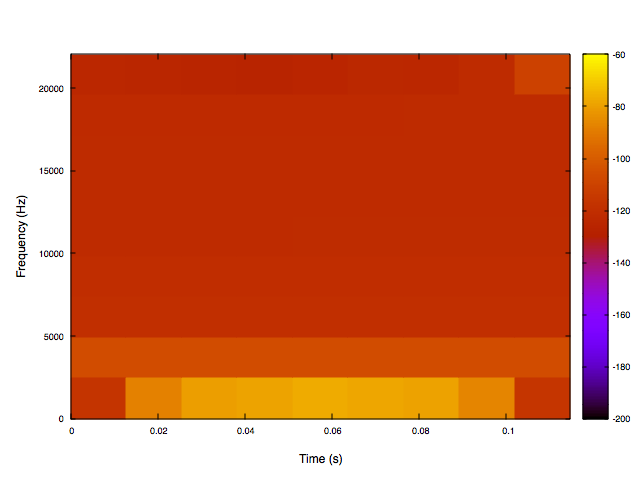
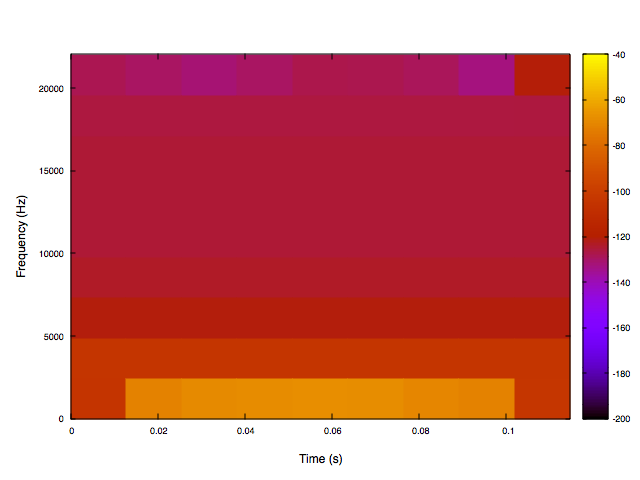
added overlap

diff --git a/audio_parser.cpp b/audio_parser.cpp
@@ -11,7 +11,7 @@
 #define PI 3.14159265
 
 std::pair<arma::mat, SF_INFO>  readWaveFile(std::string fileName);
-arma::cube parseFrequencyStrengths(arma::mat rawSound);
+arma::cube parseFrequencyStrengths(arma::mat rawSound, double overlap, double fftLength);
 void plotSpectrogram(arma::cube strengths, long frames, long samplerate);
 
 std::pair<arma::mat, SF_INFO> readWaveFile(std::string fileName) {
@@ -45,74 +45,86 @@ std::pair<arma::mat, SF_INFO> readWaveFile(std::string fileName) {
                 long column = i % numChannels;
                 buffer(row,column) = tempBuffer[i];
             }
-            free(tempBuffer);
+            delete[] tempBuffer;
+//            free(tempBuffer);
         }
         sf_close(sndFile);
     }
     return std::make_pair(buffer, soundInfo);
 }
 
-arma::cube parseFrequencyStrengths(arma::mat rawSound) {
-    double numFrequencyBins = 1024;
-    double validFrequencyBins = floor(numFrequencyBins/2.0);
-    double numSamples = rawSound.n_rows;
-    double numChannels = rawSound.n_cols;
-    double numIntervals = floor(numSamples/numFrequencyBins)+1;
+arma::cube parseFrequencyStrengths(arma::mat rawSound, double overlap, long fftLength) {
+    long numSamples = rawSound.n_rows;
+    long numChannels = rawSound.n_cols;
+    
+    double numIntervals = 0;
+    if (numSamples%fftLength == 0) {
+        numIntervals = (floor(numSamples/fftLength)-1)/overlap+1;
+    }
+    else {
+        numIntervals = floor(numSamples/fftLength)/overlap+1;
+    }
+    long numSamplesOverlap = fftLength*overlap;
+    long validFFTLength = fftLength/2;
     
     arma::cube retMatrix;
-    retMatrix.zeros(numChannels, numIntervals, validFrequencyBins);
+    retMatrix.zeros(numChannels, numIntervals, validFFTLength);
     
-    for(double i=0; i<numIntervals; i++) {
-        //try 50% overlap, retain information lost from window function
-        double start = i*numFrequencyBins;
-        double end = (i+1)*numFrequencyBins-1;
-        if (i==(numIntervals-1)) {
-            end = numSamples-1;
+    for(double j=0; j<numIntervals; j++) {
+        long startIndex = j*numSamplesOverlap;
+        long endIndex = startIndex + fftLength - 1;
+        if(endIndex >= numSamples) {
+            endIndex = numSamples-1;
         }
-        double fftLength = end-start+1;
-        arma::uvec fftRange = arma::linspace<arma::uvec>(start, end, fftLength);
+        long numAvailableSamples = endIndex-startIndex+1;
+        arma::uvec fftRange = arma::linspace<arma::uvec>(startIndex, endIndex, numAvailableSamples);
         
-        for(double j=0; j<numChannels; j++) {
-            arma::uvec colVec;
-            colVec << j;
-            arma::cx_mat chunk(fftLength, 1);
+        for(double i=0; i<numChannels; i++) {
+            arma::uvec channelVec;
+            channelVec << i;
+            
+            arma::cx_vec chunk(numAvailableSamples);
             fftw_complex* in = reinterpret_cast<fftw_complex*> (chunk.colptr(0));
-            fftw_plan plan = fftw_plan_dft_1d(fftLength, in, in, FFTW_FORWARD, FFTW_MEASURE);
-            chunk = arma::conv_to<arma::cx_mat>::from(rawSound.submat(fftRange, colVec));
+            fftw_plan plan = fftw_plan_dft_1d(numAvailableSamples, in, in, FFTW_FORWARD, FFTW_MEASURE);
+            chunk = arma::conv_to<arma::cx_vec>::from(rawSound.submat(fftRange, channelVec));
             
             //hann window function, reduce spectral leakage
-            for (double k=0; k<fftLength; k++) {
-                double multiplier = 0.5 * (1 - cos(2.0*PI*k/(fftLength-1)));
-                chunk(k, 0) = multiplier * chunk(k, 0);
+            for (double k=0; k<numAvailableSamples; k++) {
+                double multiplier = 0.5 * (1 - cos(2.0*PI*k/(numAvailableSamples-1)));
+                chunk(k) = multiplier * chunk(k);
             }
             
-            //zero fill
-            chunk.insert_rows(fftLength, numFrequencyBins-fftLength, true);
+            if (numAvailableSamples < fftLength) {
+                //zero fill remainder
+                chunk.insert_rows(numAvailableSamples, fftLength-numAvailableSamples);
+            }
             
             //compute FFT
             fftw_execute(plan);
             
             //drop frequencies below nyquist frequency
-            chunk.shed_rows(validFrequencyBins, numFrequencyBins-1);
+            chunk.shed_rows(validFFTLength, fftLength-1);
             
             //equalize frequency strengths for different fft lengths
-            chunk /= fftLength;
+            chunk /= numAvailableSamples;
             
             //apply absolute value, combines R & I components
-            arma::mat magnitudeChunk = abs(chunk);
+            arma::vec magnitudeChunk = abs(chunk);
             
             //converts magnitude to dB scale
             magnitudeChunk = 20.0*log10(magnitudeChunk);
             
-            for (double k=0; k<validFrequencyBins; k++) {
-                retMatrix(j, i, k) = magnitudeChunk(k, 0);
+            for (double k=0; k<validFFTLength; k++) {
+                retMatrix(i, j, k) = magnitudeChunk(k);
             }
         }
+        
     }
     
     //replace -inf with lowest valid value
     double minStrength = retMatrix.elem(find_finite(retMatrix)).min();
     retMatrix.elem( find_nonfinite(retMatrix) ).fill(minStrength);
+    
     return retMatrix;
 }
 
@@ -159,7 +171,10 @@ int main (void) {
     std::pair<arma::mat, SF_INFO> waveData = readWaveFile("440_sine.wav");
     arma::mat buffer = waveData.first;
     SF_INFO soundInfo = waveData.second;
-    arma::cube parsedStrengths = parseFrequencyStrengths(buffer);
+    long fftLength = 1024;
+    double overlap = 0.5;
+    arma::cube parsedStrengths;
+    parsedStrengths = parseFrequencyStrengths(buffer, overlap, fftLength);
     plotSpectrogram(parsedStrengths, soundInfo.frames, soundInfo.samplerate);
     return 0;
 }

diff --git a/test.cpp b/test.cpp
@@ -1,0 +1,51 @@
+#include <iostream>
+#include <armadillo>
+
+void getNumIntervals(long numSamples, long fftLength, double overlap);
+
+void getNumIntervals(long numSamples, long fftLength, double overlap) {
+    double numIntervals = 0;
+    if (numSamples%fftLength == 0) {
+        numIntervals = (floor(numSamples/fftLength)-1)/overlap+1;
+    }
+    else {
+        numIntervals = floor(numSamples/fftLength)/overlap+1;
+    }
+//    std::cout << numIntervals << std::endl;
+//    std::cout << fftLength*overlap << std::endl;
+}
+
+int main (void) {
+    long numChannels = 2;
+    long numIntervals = 4;
+    long numAvailableSamples = 3;
+    long fftLength = 5;
+    long validFrequencyBins = 5;
+    arma::cube A;
+    A.zeros(numChannels, numIntervals, validFrequencyBins);
+    
+    
+    for(long i=0; i<numIntervals; i++) {
+        for(long j=0; j<numChannels; j++) {
+            arma::cube chunk(1, 1, numAvailableSamples);
+            chunk(0, 0, 0) = 1.0;
+            chunk(0, 0, 1) = 2.0;
+            chunk(0, 0, 2) = 3.0;
+            chunk.insert_slices(numAvailableSamples, fftLength-numAvailableSamples, true);
+            A.tube(j, i) = chunk;
+        }
+    }
+//    getNumIntervals(5060, 1024, 0.5);
+//    getNumIntervals(5060, 1024, 0.25);
+//    
+//    getNumIntervals(5060, 128, 0.5);
+//    getNumIntervals(5060, 128, 0.25);
+//    
+//    getNumIntervals(2048, 1024, 0.5);
+//    getNumIntervals(2048, 1024, 0.25);
+//    
+//    getNumIntervals(2048, 128, 0.5);
+//    getNumIntervals(2048, 128, 0.25);
+    
+    return 0;
+}

diff --git a/test.py b/test.py
@@ -1,0 +1,36 @@
+from math import ceil, floor
+
+def test(numSamplePoints, overlap, fftLength):
+    startIndex = 0
+    numIntervals = 0
+    
+    while startIndex < numSamplePoints:
+        endIndex = startIndex + fftLength
+        if endIndex >= numSamplePoints:
+            endIndex = numSamplePoints - 1
+#        print startIndex, endIndex
+        numIntervals += 1
+        if endIndex == (numSamplePoints-1):
+            break
+        else:
+            startIndex += fftLength*overlap
+#    print " " 
+    print numIntervals
+#    print numSamplePoints, " " , fftLength, " ", overlap
+#    if numSamplePoints%fftLength == 0:
+#        print (floor(numSamplePoints/fftLength)-1)/overlap +1
+#    else:
+#        print floor(numSamplePoints/fftLength)/overlap + 1
+    
+
+test(5060.0, 0.5, 1024.0)
+test(5060.0, 0.25, 1024.0)
+
+test(5096.0, 0.5, 128.0)
+test(5096.0, 0.25, 128.0)
+
+test(2048.0, 0.5, 1024.0)
+test(2048.0, 0.25, 1024.0)
+
+test(2048.0, 0.5, 128.0)
+test(2048.0, 0.25, 128.0)
